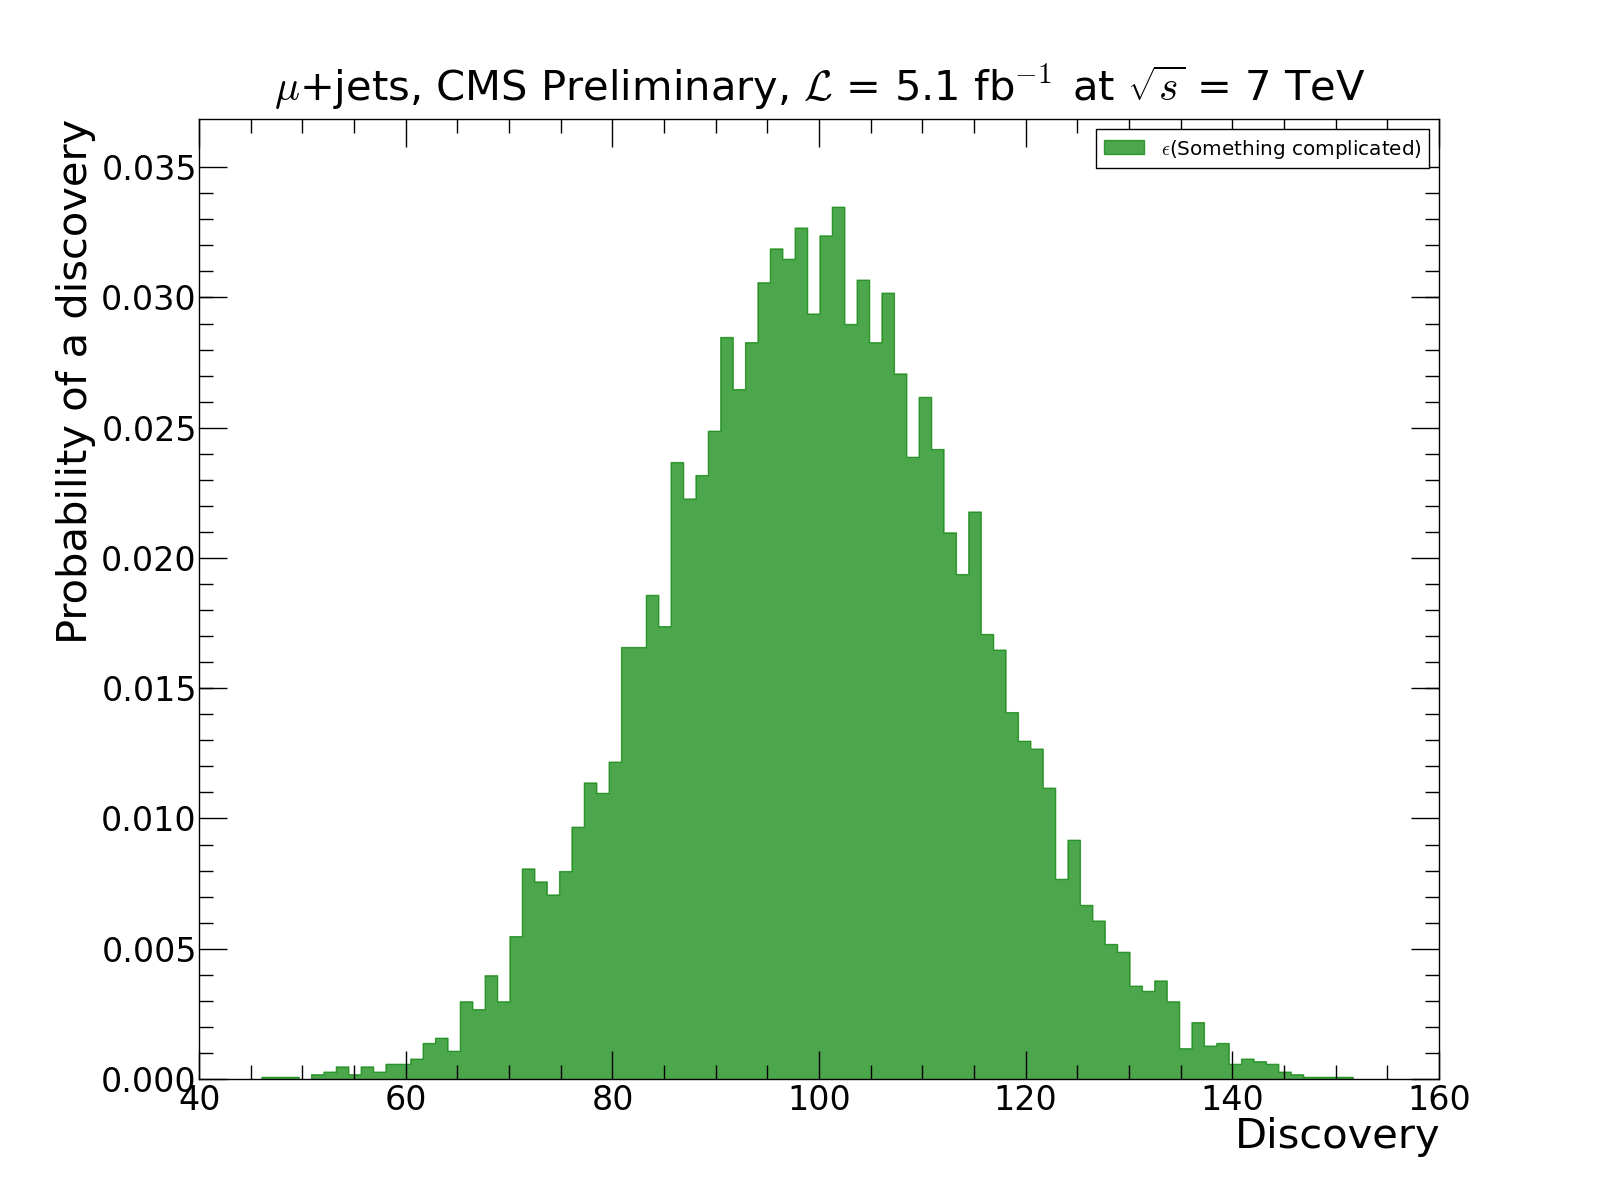
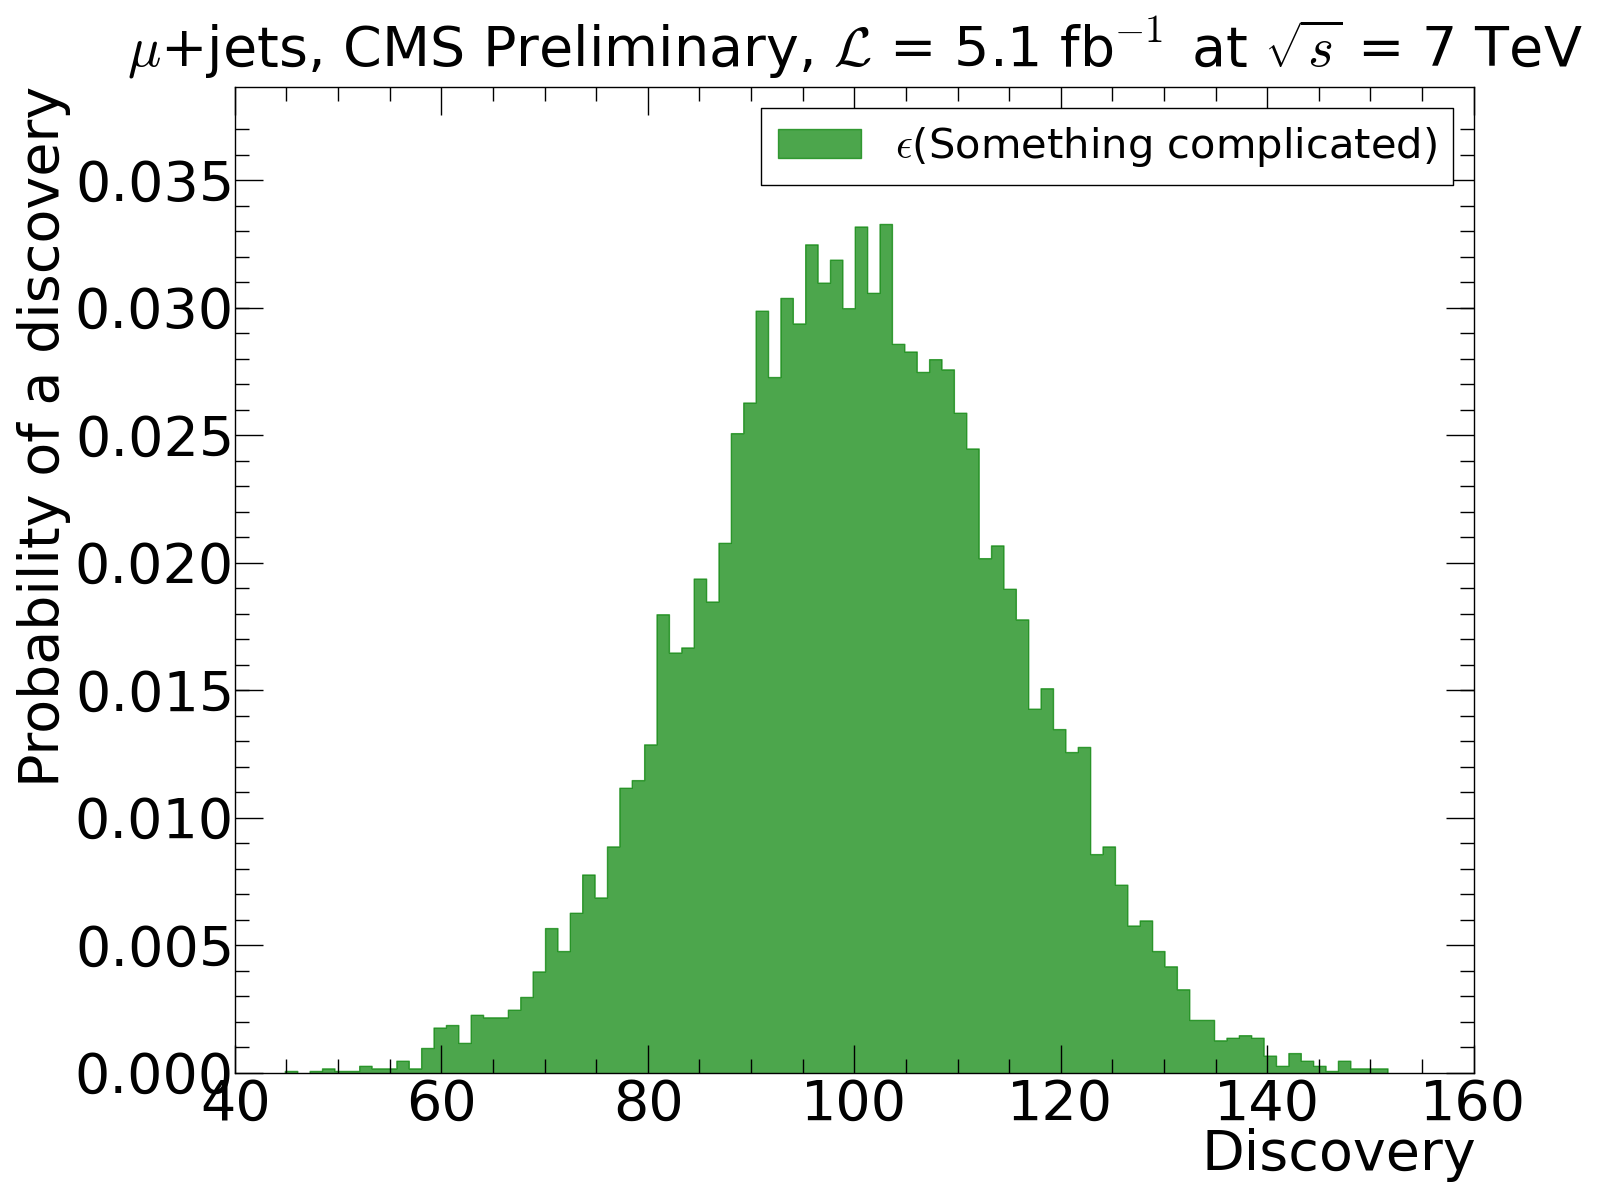
a bit of style tuning for the HLT plots

diff --git a/src/make_HLT_plots.py b/src/make_HLT_plots.py
@@ -15,6 +15,9 @@ from matplotlib.ticker import MultipleLocator, FormatStrFormatter
 import numpy
 from numpy import frompyfunc
 from pylab import plot
+
+from matplotlib import rc
+rc('text', usetex=True)
             
 def make_efficiency_plot(pass_data, total_data, pass_mc, total_mc, trigger_under_study):
     global output_folder, output_formats
@@ -59,9 +62,6 @@ def plot_efficiencies(efficiency_data, efficiency_mc, scale_factor,
                       fit_data, fit_mc, fit_SF, fit_function,
                       x_limits, x_title, y_title, save_as_name):    
     # plot with matplotlib
-    from matplotlib import rc
-    rc('text', usetex=True)
-    
     plt.figure(figsize=(16, 16), dpi=200, facecolor='white')
     gs = gridspec.GridSpec(2, 1, height_ratios=[5, 1]) 
 
@@ -69,6 +69,9 @@ def plot_efficiencies(efficiency_data, efficiency_mc, scale_factor,
     ax0.minorticks_on()
     ax0.grid(True, 'major', linewidth=2)
     ax0.grid(True, 'minor')
+    plt.tick_params(**CMS.axis_label_major)
+    plt.tick_params(**CMS.axis_label_minor)
+    
     ax0.yaxis.set_major_formatter(FormatStrFormatter('%.1f'))
     
     rplt.errorbar(efficiency_data, xerr=True, emptybins=True, axes=ax0)
@@ -77,10 +80,9 @@ def plot_efficiencies(efficiency_data, efficiency_mc, scale_factor,
     ax0.set_xlim(x_limits)
     
     plt.ylabel(y_title, CMS.y_axis_title)
-    plt.tick_params(**CMS.axis_label_major)
-    plt.tick_params(**CMS.axis_label_minor)
+    
     plt.title(r'e+jets, CMS Preliminary, $\mathcal{L}$ = 5.1 fb$^{-1}$ at $\sqrt{s}$ = 7 TeV', CMS.title)
-    plt.legend(['data', r'$\mathrm{t}\bar{\mathrm{t}}$ MC'], numpoints=1, loc='lower right', prop={'size':40})
+    plt.legend(['data', r'$\mathrm{t}\bar{\mathrm{t}}$ MC'], numpoints=1, loc='lower right', prop=CMS.legend_properties)
     
     #add fits
     x = numpy.linspace(fit_data.GetXmin(), fit_data.GetXmax(), fit_data.GetNpx())
@@ -105,11 +107,9 @@ def plot_efficiencies(efficiency_data, efficiency_mc, scale_factor,
     ax1.yaxis.set_major_formatter(FormatStrFormatter('%.1f'))
 
     ax1.xaxis.set_major_formatter(FormatStrFormatter('%d'))
-    if 'jet_pt' in trigger_under_study:
-        ax1.xaxis.set_minor_formatter(FormatStrFormatter('%d'))
-        
     plt.tick_params(**CMS.axis_label_major)
     plt.tick_params(**CMS.axis_label_minor)
+
     plt.xlabel(x_title, CMS.x_axis_title)
     plt.ylabel('data/MC', CMS.y_axis_title)
     
@@ -136,6 +136,24 @@ def plot_efficiencies(efficiency_data, efficiency_mc, scale_factor,
     function_SF = frompyfunc(fit_SF.Eval, 1, 1)
     plot(x, function_SF(x), axes=ax1, color = 'green', linewidth = 2)
     
+    if 'jet_pt' in trigger_under_study:
+        ax1.xaxis.set_minor_formatter(FormatStrFormatter('%d'))
+        plt.draw()
+        labels = [item.get_text() for item in ax1.get_xmajorticklabels()]
+        minor_labels = [item.get_text() for item in ax1.get_xminorticklabels()]
+        new_labels, new_minor_labels = [], []
+        keep_labels = ['20','50','100','150','200']
+        for label in labels:
+            if not label in keep_labels:
+                label = ''
+            new_labels.append(label)
+        for label in minor_labels:
+            if not label in keep_labels:
+                label = ''
+            new_minor_labels.append(label)
+        ax1.set_xticklabels(new_labels)
+        ax1.set_xticklabels(new_minor_labels, minor = True)
+        
     plt.tight_layout()
     
     for output_format in output_formats:
@@ -264,6 +282,13 @@ def get_input_plots(data_file, mc_file, trigger_under_study):
 if __name__ == '__main__':
     gROOT.SetBatch(True)
     gROOT.ProcessLine('gErrorIgnoreLevel = 1001;')
+    
+    CMS.title['fontsize'] = 40
+    CMS.x_axis_title['fontsize'] = 50
+    CMS.y_axis_title['fontsize'] = 50
+    CMS.axis_label_major['labelsize'] = 40
+    CMS.axis_label_minor['labelsize'] = 40
+    CMS.legend_properties['size'] = 40
     
     output_formats = ['png', 'pdf']
     output_folder = '/storage/TopQuarkGroup/results/plots/Trigger/'

diff --git a/examples/CMSStyleMatplotlib.py b/examples/CMSStyleMatplotlib.py
@@ -8,7 +8,8 @@ from rootpy.plotting import Hist
 import rootpy.plotting.root2matplotlib as rplt
 import matplotlib.pyplot as plt
 from config import CMS
-
+CMS.axis_label_major['labelsize'] = 40
+CMS.title['fontsize'] = 40
 # create a normal distribution
 mu, sigma = 100, 15
 x = mu + sigma * np.random.randn(10000)
@@ -45,5 +46,6 @@ plt.title(r'$\mu$+jets, CMS Preliminary, $\mathcal{L}$ = 5.1 fb$^{-1}$ at $\sqrt
 #            arrowprops=dict(facecolor='black', shrink=0.05))
 plt.tick_params(**CMS.axis_label_major)
 plt.tick_params(**CMS.axis_label_minor)
-plt.legend(numpoints=1)
+plt.legend(numpoints=1, prop=CMS.legend_properties)
+plt.tight_layout()
 plt.savefig('plots/CMSStyleMatplotlib.png')
